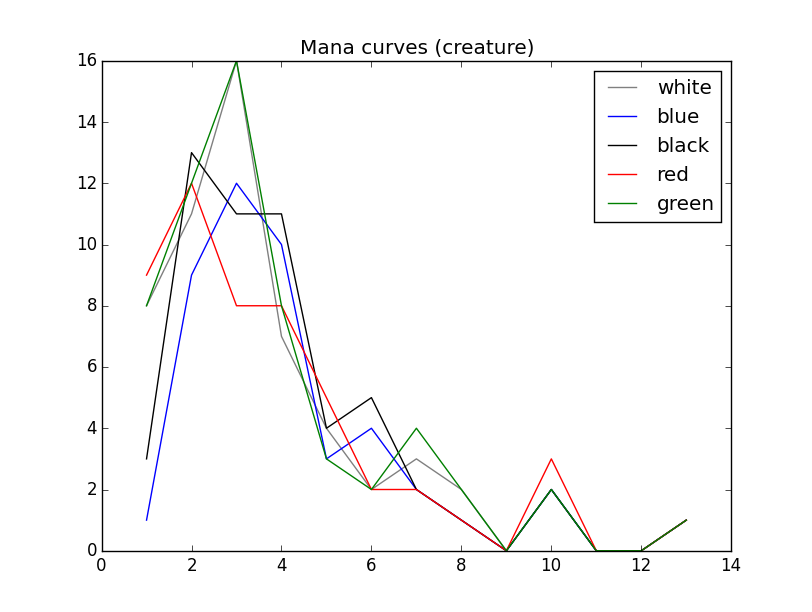
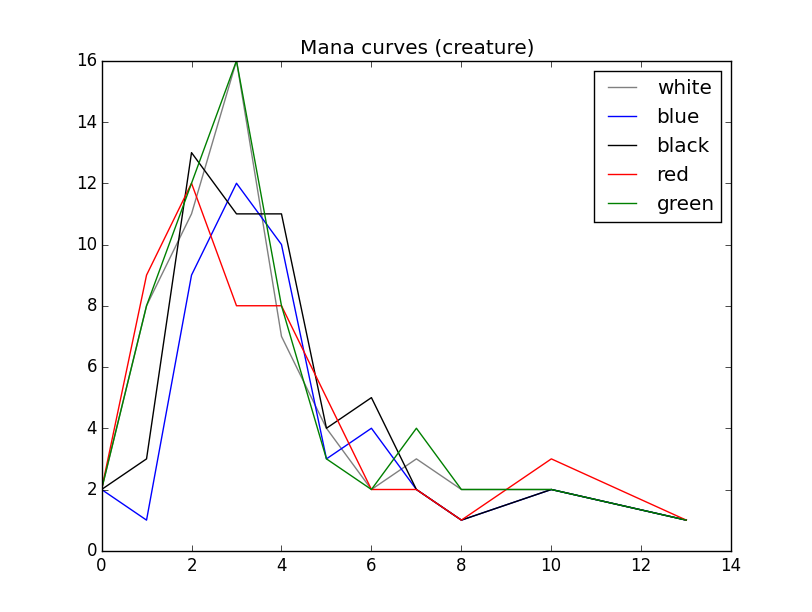
Various code and documentation improvements

Changed region(s): [[0.5542, 0.7451, 0.8621, 0.9003], [0.1232, 0.6209, 0.1847, 0.8072], [0.1539, 0.4967, 0.1847, 0.6209]]

diff --git a/cubealyzer.py b/cubealyzer.py
@@ -33,10 +33,6 @@ logging.basicConfig(level=logging.WARNING, format='%(asctime)s - %(levelname)s\
 
 class Cube():
 
-    # Hard limit on CMC used to calculate/display curve to prevent issues with
-    # cards like Gleemax.
-    MAX_CMC = 15
-
     def __init__(self, csv_file, json_file):
         """Loads cube data from CSV file. Saves card data to JSON file."""
         self.curve = dict()
@@ -67,21 +63,9 @@ class Cube():
 
         curve = Counter()
 
-        # The highest cmc appearing in a cost
-        max_cmc = int(max([self.cards.get(name).get('cmc', 0) for name in
-                           self.contents]))
-
-        max_cmc = min(max_cmc, self.MAX_CMC)
-
-        for cmc in range(1, max_cmc + 1):
-
-            cmc_cards = ((self.cards.get(name)) for
-                         name in self.contents if
-                         self.cards.get(name).get('cmc') == cmc)
-
-            for card in cmc_cards:
-                if all(condition(card) for condition in conditions):
-                    curve[cmc] += 1
+        for card in (self.cards.get(name) for name in self.contents):
+            if all(condition(card) for condition in conditions):
+                curve[card.get('cmc', 0)] += 1
 
         return curve
 
@@ -99,13 +83,11 @@ class Cube():
             # True if the card object is the specified type
             condition_list.append(lambda card: curve_type in card.get('types'))
 
-        # Otherwise any non-land permanent
+        # Otherwise any nonland permanent
         else:
             def is_permanent(card):
-
                 return any(t in {'creature', 'enchantment', 'artifact',
                           'planeswalker'} for t in card.get('types'))
-
             condition_list.append(is_permanent)
 
         if sub_type is not None:
@@ -149,8 +131,8 @@ class Cube():
                                    sub_type=sub_type)
 
     def print_curve(self, faction_list, curve_type='creature'):
-        """Displays the curve for a type"""
-        if curve_type not in self.curve.keys():
+        """Displays the curve for a type."""
+        if curve_type not in self.curve:
             self.calculate_curve(curve_type=curve_type)
 
         print("{}Cards of type {} at each cost in:{}".format(Style.BRIGHT,
@@ -161,7 +143,7 @@ class Cube():
             if faction in faction_list:
                 print(faction.ljust(12), end='')
                 for mana, num in sorted(curve.items()):
-                    print("{}{}{}:{:2} ".format(Style.BRIGHT, mana,
+                    print("{}{:.0f}{}:{:2} ".format(Style.BRIGHT, mana,
                                                 Style.RESET_ALL, num), end='')
                 print()
 
@@ -173,7 +155,7 @@ class Cube():
         y = [v for k, v in sorted(d.get(faction, {}).items())]
 
         # Plot colors
-        if faction in mtg.Faction.pc.keys():
+        if faction in mtg.Faction.pc:
             plt.plot(x, y, color=mtg.Faction.pc[faction], label=faction)
         else:
             plt.plot(x, y, label=faction)
@@ -196,7 +178,7 @@ class Cube():
     def count(self, card_type, faction):
         """Returns a dictionary of the number of..."""
 
-        if card_type not in self.curve.keys():
+        if card_type not in self.curve:
             self.calculate_curve(curve_type='creature')
 
         return sum(self.curve.get(card_type, dict()).

diff --git a/mtg.py b/mtg.py
@@ -285,6 +285,7 @@ class Cards():
                 # Compatibility with previous Deckbrew format
                 self.db[name]['cost'] = self.db[name]['mana_cost']
 
+                # Parse typeline
                 typeline = self.db[name]['type_line'].lower()
 
                 # Parse card type into types (including supertype) and creature type
@@ -312,7 +313,7 @@ class Cards():
                 time.sleep(2)
                 self.add_card(name)
 
-            # otherwise fail
+            # Otherwise fail
             elif r.status_code == 404:
                 exit("Card {} not found in API!".format(name))
 
@@ -328,18 +329,3 @@ class Cards():
         if self.path:
             with open(self.path, 'w') as db_file:
                 db_file.write(json.dumps(self.db))
-
-    def show_guild_numbers():
-        """Debugging function"""
-        for c in range(0, 10):
-            print("{} {}".format(c, Faction.g[c]))
-
-    # there isn't really a point of looking up cards against the info database.
-    # you'd actually want to look up cards against the cube contents.
-
-    def condition_match(self, condition, **kwargs):
-        """Returns the set of card names in the database that match a condition
-        function.  Example: print(cdb.condition_match(lambda c: 'treefolk' in
-        c.get('subtypes', []))).  """
-
-        return {n for n, c in self.db.items() if condition(c, **kwargs)}

diff --git a/README.md b/README.md
@@ -12,7 +12,7 @@ A cube file should be provided as input via the positional argument. This
 should contain the cards appearing in the cube, one per line. If there are
 multiple copies of a card, that line should be repeated. This format was chosen
 because it is compatible with the [cubetutor](https://www.cubetutor.com/) CSV
-output (columns besides the first are ignored).
+output (columns after the first are ignored).
 
 Uses [Scryfall](https://scryfall.com/docs/api/) to fetch card data. This data
 will be downloaded and stored in a JSON file with the same base name as the CSV
@@ -53,7 +53,7 @@ optional arguments:
 Using [psyllogism's Modern Cube](http://www.cubetutor.com/viewcube/75206):
 
 ```
-$ python3  ./cubealyzer.py -cg --plot my_modern_cube.csv
+$ ./cubealyzer.py -cg --plot my_modern_cube.csv
 Total cards playable in:
 black       177
 blue        171
@@ -61,17 +61,17 @@ green       181
 red         178
 white       174
 Cards of type creature playable in:
-black       53
-blue        45
-green       58
-red         51
-white       56
+black       55
+blue        47
+green       60
+red         53
+white       58
 Cards of type creature at each cost in:
-black       1: 3 2:13 3:11 4:11 5: 4 6: 5 7: 2 8: 1 9: 0 10: 2 11: 0 12: 0 13: 1
-blue        1: 1 2: 9 3:12 4:10 5: 3 6: 4 7: 2 8: 1 9: 0 10: 2 11: 0 12: 0 13: 1
-green       1: 8 2:12 3:16 4: 8 5: 3 6: 2 7: 4 8: 2 9: 0 10: 2 11: 0 12: 0 13: 1
-red         1: 9 2:12 3: 8 4: 8 5: 5 6: 2 7: 2 8: 1 9: 0 10: 3 11: 0 12: 0 13: 1
-white       1: 8 2:11 3:16 4: 7 5: 4 6: 2 7: 3 8: 2 9: 0 10: 2 11: 0 12: 0 13: 1
+black       0: 2 1: 3 2:13 3:11 4:11 5: 4 6: 5 7: 2 8: 1 10: 2 13: 1
+blue        0: 2 1: 1 2: 9 3:12 4:10 5: 3 6: 4 7: 2 8: 1 10: 2 13: 1
+green       0: 2 1: 8 2:12 3:16 4: 8 5: 3 6: 2 7: 4 8: 2 10: 2 13: 1
+red         0: 2 1: 9 2:12 3: 8 4: 8 5: 5 6: 2 7: 2 8: 1 10: 3 13: 1
+white       0: 2 1: 8 2:11 3:16 4: 7 5: 4 6: 2 7: 3 8: 2 10: 2 13: 1
 Total cards playable in:
 azorius     235
 boros       240
@@ -84,27 +84,27 @@ rakdos      241
 selesnya    241
 simic       240
 Cards of type creature playable in:
-azorius     86
-boros       89
-dimir       80
-golgari     95
-gruul       92
-izzet       79
-orzhov      92
-rakdos      86
-selesnya    97
-simic       88
+azorius     88
+boros       91
+dimir       82
+golgari     97
+gruul       94
+izzet       81
+orzhov      94
+rakdos      88
+selesnya    99
+simic       90
 Cards of type creature at each cost in:
-azorius     1: 9 2:17 3:26 4:14 5: 7 6: 5 7: 3 8: 2 9: 0 10: 2 11: 0 12: 0 13: 1
-boros       1:16 2:20 3:20 4:12 5: 9 6: 3 7: 3 8: 2 9: 0 10: 3 11: 0 12: 0 13: 1
-dimir       1: 4 2:19 3:18 4:18 5: 7 6: 8 7: 2 8: 1 9: 0 10: 2 11: 0 12: 0 13: 1
-golgari     1:11 2:22 3:24 4:16 5: 7 6: 6 7: 4 8: 2 9: 0 10: 2 11: 0 12: 0 13: 1
-gruul       1:17 2:20 3:20 4:13 5: 8 6: 3 7: 5 8: 2 9: 0 10: 3 11: 0 12: 0 13: 1
-izzet       1:10 2:18 3:16 4:15 5: 8 6: 5 7: 2 8: 1 9: 0 10: 3 11: 0 12: 0 13: 1
-orzhov      1:11 2:21 3:23 4:15 5: 8 6: 6 7: 3 8: 2 9: 0 10: 2 11: 0 12: 0 13: 1
-rakdos      1:11 2:22 3:15 4:16 5: 9 6: 6 7: 2 8: 1 9: 0 10: 3 11: 0 12: 0 13: 1
-selesnya    1:15 2:21 3:27 4:12 5: 8 6: 3 7: 5 8: 3 9: 0 10: 2 11: 0 12: 0 13: 1
-simic       1: 9 2:19 3:23 4:16 5: 6 6: 5 7: 5 8: 2 9: 0 10: 2 11: 0 12: 0 13: 1
+azorius     0: 2 1: 9 2:17 3:26 4:14 5: 7 6: 5 7: 3 8: 2 10: 2 13: 1
+boros       0: 2 1:16 2:20 3:20 4:12 5: 9 6: 3 7: 3 8: 2 10: 3 13: 1
+dimir       0: 2 1: 4 2:19 3:18 4:18 5: 7 6: 8 7: 2 8: 1 10: 2 13: 1
+golgari     0: 2 1:11 2:22 3:24 4:16 5: 7 6: 6 7: 4 8: 2 10: 2 13: 1
+gruul       0: 2 1:17 2:20 3:20 4:13 5: 8 6: 3 7: 5 8: 2 10: 3 13: 1
+izzet       0: 2 1:10 2:18 3:16 4:15 5: 8 6: 5 7: 2 8: 1 10: 3 13: 1
+orzhov      0: 2 1:11 2:21 3:23 4:15 5: 8 6: 6 7: 3 8: 2 10: 2 13: 1
+rakdos      0: 2 1:11 2:22 3:15 4:16 5: 9 6: 6 7: 2 8: 1 10: 3 13: 1
+selesnya    0: 2 1:15 2:21 3:27 4:12 5: 8 6: 3 7: 5 8: 3 10: 2 13: 1
+simic       0: 2 1: 9 2:19 3:23 4:16 5: 6 6: 5 7: 5 8: 2 10: 2 13: 1
 ```
 
 ![Color curves example](images/color_curves_example.png)
@@ -120,3 +120,5 @@ Current implementation uses only the first half.
 ## Notes
 
 The four color faction (nephilim) names are from Commander 2016. (See [Multicolored#Four_colors](https://mtg.gamepedia.com/index.php?title=Multicolored&oldid=279219#Four_colors))
+
+Cards with only "X" costs (e.g., "Walking Ballista") have CMC 0.
